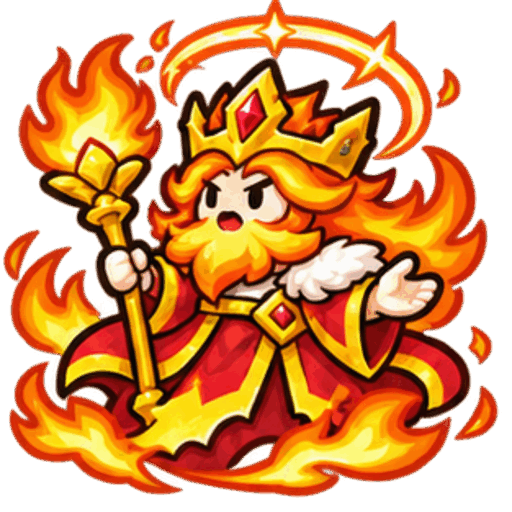
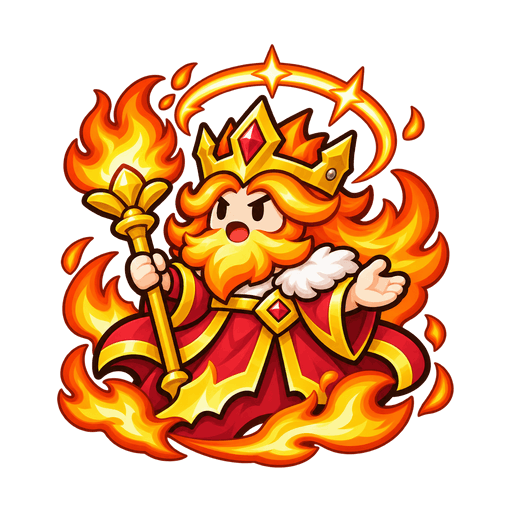
端が切れていたカード絵8枚を描き直す

diff --git a/js/ui/precache.js b/js/ui/precache.js
@@ -1,2 +1,2 @@
-self.CF_CACHE_VERSION="bb3beb484dd0ec26";
+self.CF_CACHE_VERSION="f06e5a0312164f7f";
 self.CF_ASSETS=["index.html","manifest.webmanifest","css/accessibility.css","css/battle.css","css/beast.css","css/card-base.css","css/card-zoom.css","css/chat.css","css/components.css","css/deck.css","css/experience.css","css/finishing-art.css","css/fit.css","css/help-guide.css","css/hologram.css","css/kingdom.css","css/layout.css","css/mana-growth.css","css/materials.css","css/motion.css","css/mp.css","css/polish.css","css/rarity-assets.css","css/rarity-fx.css","css/settings.css","css/step5.css","css/style.css","css/text-fit.css","css/theme.css","css/tokens.css","css/tutorial.css","css/weather.css","js/game/Card.js","js/game/Castle.js","js/game/Game.js","js/game/Monster.js","js/game/Player.js","js/game/Road.js","js/game/Setup.js","js/game/Soldier.js","js/game/Weather.js","js/game/strategies.js","js/game/visibility.js","js/main.js","js/ui/Accessibility.js","js/ui/Animations.js","js/ui/BattleLayout.js","js/ui/CardGuide.js","js/ui/CardInfo.js","js/ui/CardRelief.js","js/ui/CardZoom.js","js/ui/ChatView.js","js/ui/DebugPanel.js","js/ui/DeckEditor.js","js/ui/DeckPreview.js","js/ui/DeckStore.js","js/ui/HandView.js","js/ui/HelpView.js","js/ui/Hologram.js","js/ui/LocalSetup.js","js/ui/MatchStats.js","js/ui/MaterialSkin.js","js/ui/Music.js","js/ui/OnlineClient.js","js/ui/ProgressPanel.js","js/ui/Renderer.js","js/ui/RoomView.js","js/ui/Session.js","js/ui/Settings.js","js/ui/Sound.js","js/ui/Targeting.js","js/ui/Tutorial.js","js/ui/UpgradePanel.js","js/ui/WeatherView.js","js/ui/art.js","js/ui/cardFrame.js","js/ui/cardView.js","js/ui/config.js","js/ui/handOrder.js","js/ui/look.js","js/ui/motion.js","js/ui/pills.js","js/ui/rarity.js","js/ui/stories.js","js/ui/syncCheck.js","js/ui/text.js","data/cards.json","data/castles.json","data/decks.json","data/monsters.json","data/rarities.json","data/rules.json","data/stamps.json","data/upgrades.json","data/weather.json","assets/asset-manifest.json","assets/bg/board-meadow-compact.png","assets/bg/board-meadow.png","assets/bg/board.png","assets/bg/kingdom-meadow.png","assets/bg/kingdom-valley.png","assets/bg/title-compact.png","assets/bg/title.png","assets/cards/card-absolute-zero.png","assets/cards/card-adapt.png","assets/cards/card-apocalypse.png","assets/cards/card-apprentice-archer.png","assets/cards/card-apprentice-mage.png","assets/cards/card-archer.png","assets/cards/card-archmage.png","assets/cards/card-barrier.png","assets/cards/card-beast-bat.png","assets/cards/card-beast-demon-king.png","assets/cards/card-beast-demon.png","assets/cards/card-beast-dragon.png","assets/cards/card-beast-ghost.png","assets/cards/card-beast-goblin.png","assets/cards/card-beast-golem.png","assets/cards/card-beast-mimic.png","assets/cards/card-beast-skeleton.png","assets/cards/card-beast-slime.png","assets/cards/card-beast-treant.png","assets/cards/card-beast-vampire.png","assets/cards/card-big-shield.png","assets/cards/card-big-thunder.png","assets/cards/card-blessing.png","assets/cards/card-bolt.png","assets/cards/card-cavalry.png","assets/cards/card-coin-pouch.png","assets/cards/card-death-mist.png","assets/cards/card-decoy.png","assets/cards/card-deep-freeze.png","assets/cards/card-dragon-knight.png","assets/cards/card-earth-hammer.png","assets/cards/card-earth-king.png","assets/cards/card-earth-spirit.png","assets/cards/card-fire-king.png","assets/cards/card-fire-spirit.png","assets/cards/card-fireball.png","assets/cards/card-flame-sword.png","assets/cards/card-frost-breath.png","assets/cards/card-frozen-world.png","assets/cards/card-gate.png","assets/cards/card-giant.png","assets/cards/card-glacier.png","assets/cards/card-god-shield.png","assets/cards/card-god-sword.png","assets/cards/card-goddess.png","assets/cards/card-gold-coin.png","assets/cards/card-gold-vein.png","assets/cards/card-great-earth-spirit.png","assets/cards/card-great-fire-spirit.png","assets/cards/card-great-heal.png","assets/cards/card-great-water-spirit.png","assets/cards/card-great-wind-spirit.png","assets/cards/card-heal.png","assets/cards/card-heavy.png","assets/cards/card-hero.png","assets/cards/card-holy-light.png","assets/cards/card-holy-shield.png","assets/cards/card-holy-sword.png","assets/cards/card-infantry.png","assets/cards/card-inferno.png","assets/cards/card-iron-sword.png","assets/cards/card-judgment.png","assets/cards/card-king-treasure.png","assets/cards/card-knight.png","assets/cards/card-longbowman.png","assets/cards/card-mage.png","assets/cards/card-magic-sword.png","assets/cards/card-mana-crystal.png","assets/cards/card-mana-drop.png","assets/cards/card-mana-shard.png","assets/cards/card-mana-spring.png","assets/cards/card-meteor.png","assets/cards/card-minor-heal.png","assets/cards/card-paladin.png","assets/cards/card-plague.png","assets/cards/card-poison-mist.png","assets/cards/card-prayer.png","assets/cards/card-raijin.png","assets/cards/card-reflect.png","assets/cards/card-sage.png","assets/cards/card-sandbag.png","assets/cards/card-scout.png","assets/cards/card-shield.png","assets/cards/card-sky-archer.png","assets/cards/card-sniper.png","assets/cards/card-sorcerer.png","assets/cards/card-spearman.png","assets/cards/card-starfall.png","assets/cards/card-steel-shield.png","assets/cards/card-stone-wall.png","assets/cards/card-thief.png","assets/cards/card-thunder.png","assets/cards/card-toxic-rain.png","assets/cards/card-treasure.png","assets/cards/card-venom.png","assets/cards/card-wall.png","assets/cards/card-water-king.png","assets/cards/card-water-spear.png","assets/cards/card-water-spirit.png","assets/cards/card-weather-call.png","assets/cards/card-wind-bow.png","assets/cards/card-wind-king.png","assets/cards/card-wind-spirit.png","assets/cards/card-world-tree-dew.png","assets/cards/frame-beast.png","assets/cards/frame-common.png","assets/cards/frame-defense.png","assets/cards/frame-epic.png","assets/cards/frame-legendary.png","assets/cards/frame-rare.png","assets/cards/frame-soldier.png","assets/cards/frame-special.png","assets/cards/frame-spell.png","assets/cards/frame-uncommon.png","assets/cards/frame-weapon.png","assets/cards/relief/frame-beast-raised.png","assets/cards/relief/frame-beast-relief.png","assets/cards/relief/frame-common-raised.png","assets/cards/relief/frame-common-relief.png","assets/cards/relief/frame-defense-raised.png","assets/cards/relief/frame-defense-relief.png","assets/cards/relief/frame-epic-raised.png","assets/cards/relief/frame-epic-relief.png","assets/cards/relief/frame-legendary-raised.png","assets/cards/relief/frame-legendary-relief.png","assets/cards/relief/frame-rare-raised.png","assets/cards/relief/frame-rare-relief.png","assets/cards/relief/frame-soldier-raised.png","assets/cards/relief/frame-soldier-relief.png","assets/cards/relief/frame-special-raised.png","assets/cards/relief/frame-special-relief.png","assets/cards/relief/frame-spell-raised.png","assets/cards/relief/frame-spell-relief.png","assets/cards/relief/frame-uncommon-raised.png","assets/cards/relief/frame-uncommon-relief.png","assets/cards/relief/frame-weapon-raised.png","assets/cards/relief/frame-weapon-relief.png","assets/castles/barracks-blue-damaged-1.png","assets/castles/barracks-blue-damaged-2.png","assets/castles/barracks-blue-damaged-3.png","assets/castles/barracks-blue.png","assets/castles/barracks-orange-damaged-1.png","assets/castles/barracks-orange-damaged-2.png","assets/castles/barracks-orange-damaged-3.png","assets/castles/barracks-orange.png","assets/castles/castle-blue-damaged-1.png","assets/castles/castle-blue-damaged-2.png","assets/castles/castle-blue-damaged-3.png","assets/castles/castle-blue-ruined.png","assets/castles/castle-blue.png","assets/castles/castle-orange-damaged-1.png","assets/castles/castle-orange-damaged-2.png","assets/castles/castle-orange-damaged-3.png","assets/castles/castle-orange-ruined.png","assets/castles/castle-orange.png","assets/castles/fortress-blue-damaged-1.png","assets/castles/fortress-blue-damaged-2.png","assets/castles/fortress-blue-damaged-3.png","assets/castles/fortress-blue.png","assets/castles/fortress-orange-damaged-1.png","assets/castles/fortress-orange-damaged-2.png","assets/castles/fortress-orange-damaged-3.png","assets/castles/fortress-orange.png","assets/castles/tower-blue-damaged-1.png","assets/castles/tower-blue-damaged-2.png","assets/castles/tower-blue-damaged-3.png","assets/castles/tower-blue.png","assets/castles/tower-orange-damaged-1.png","assets/castles/tower-orange-damaged-2.png","assets/castles/tower-orange-damaged-3.png","assets/castles/tower-orange.png","assets/fx/dust.png","assets/fx/evolve-1.png","assets/fx/evolve-2.png","assets/fx/evolve-3.png","assets/fx/explosion.png","assets/fx/fireball.png","assets/fx/fusion.png","assets/fx/heal.png","assets/fx/ice.png","assets/fx/lightning.png","assets/fx/lucky-reward.png","assets/fx/poison.png","assets/ui/app-icon-192.png","assets/ui/app-icon-512.png","assets/ui/app-icon-maskable-512.png","assets/ui/apple-touch-icon.png","assets/ui/banner-win.png","assets/ui/btn-blue.png","assets/ui/btn-cream.png","assets/ui/btn-green.png","assets/ui/btn-orange.png","assets/ui/btn-red.png","assets/ui/btn-round.png","assets/ui/button-end-turn.png","assets/ui/card-back.png","assets/ui/icon-coin.png","assets/ui/icon-earth.png","assets/ui/icon-fire.png","assets/ui/icon-heart.png","assets/ui/icon-help.png","assets/ui/icon-kind-defense.png","assets/ui/icon-kind-soldier.png","assets/ui/icon-kind-spell.png","assets/ui/icon-kind-weapon.png","assets/ui/icon-kind-wild.png","assets/ui/icon-luck.png","assets/ui/icon-mode-local.png","assets/ui/icon-mode-online.png","assets/ui/icon-mode-solo.png","assets/ui/icon-mp.png","assets/ui/icon-rarity-common.png","assets/ui/icon-rarity-epic.png","assets/ui/icon-rarity-legendary.png","assets/ui/icon-rarity-rare.png","assets/ui/icon-rarity-special.png","assets/ui/icon-rarity-uncommon.png","assets/ui/icon-water.png","assets/ui/icon-wind.png","assets/ui/kingdom-crest.png","assets/ui/kingdom-parchment.png","assets/ui/kingdom-platform.png","assets/ui/kingdom-primary.png","assets/ui/kingdom-secondary.png","assets/ui/kingdom-wood.png","assets/ui/logo.png","assets/ui/natural/danger-40-left.png","assets/ui/natural/danger-40-middle.png","assets/ui/natural/danger-40-right.png","assets/ui/natural/danger-44-left.png","assets/ui/natural/danger-44-middle.png","assets/ui/natural/danger-44-right.png","assets/ui/natural/danger-72-left.png","assets/ui/natural/danger-72-middle.png","assets/ui/natural/danger-72-right.png","assets/ui/natural/frame.png","assets/ui/natural/leather-tile.png","assets/ui/natural/neutral-40-left.png","assets/ui/natural/neutral-40-middle.png","assets/ui/natural/neutral-40-right.png","assets/ui/natural/neutral-44-left.png","assets/ui/natural/neutral-44-middle.png","assets/ui/natural/neutral-44-right.png","assets/ui/natural/neutral-72-left.png","assets/ui/natural/neutral-72-middle.png","assets/ui/natural/neutral-72-right.png","assets/ui/natural/neutral-wide-full.png","assets/ui/natural/oak-tile.png","assets/ui/natural/paper-tile.png","assets/ui/natural/primary-40-left.png","assets/ui/natural/primary-40-middle.png","assets/ui/natural/primary-40-right.png","assets/ui/natural/primary-44-left.png","assets/ui/natural/primary-44-middle.png","assets/ui/natural/primary-44-right.png","assets/ui/natural/primary-72-left.png","assets/ui/natural/primary-72-middle.png","assets/ui/natural/primary-72-right.png","assets/ui/natural/primary-wide-full.png","assets/ui/natural/round-neutral.png","assets/ui/natural/round-selected.png","assets/ui/natural/selected-40-left.png","assets/ui/natural/selected-40-middle.png","assets/ui/natural/selected-40-right.png","assets/ui/natural/selected-44-left.png","assets/ui/natural/selected-44-middle.png","assets/ui/natural/selected-44-right.png","assets/ui/natural/selected-72-left.png","assets/ui/natural/selected-72-middle.png","assets/ui/natural/selected-72-right.png","assets/ui/panel-parchment.png","assets/ui/result-defeat.png","assets/ui/result-victory.png","assets/ui/sign-hp.png","assets/ui/stamps/again.png","assets/ui/stamps/gg.png","assets/ui/stamps/go.png","assets/ui/stamps/hello.png","assets/ui/stamps/nice.png","assets/ui/stamps/ouch.png","assets/ui/stamps/scared.png","assets/ui/stamps/smug.png","assets/ui/stamps/sorry.png","assets/ui/stamps/thanks.png","assets/ui/stamps/think.png","assets/ui/stamps/yay.png","assets/ui/tap-plate.png","assets/ui/title-castle-blue.png","assets/ui/title-castle-orange.png","assets/ui/title-infantry-orange.png","assets/ui/title-knight-blue.png","assets/ui/weather-coin-rain.png","assets/ui/weather-fog.png","assets/ui/weather-heavy-rain.png","assets/ui/weather-rain.png","assets/ui/weather-sandstorm.png","assets/ui/weather-storm.png","assets/ui/weather-sunny.png","assets/units/apprentice-archer-blue.png","assets/units/apprentice-archer-orange.png","assets/units/apprentice-mage-blue.png","assets/units/apprentice-mage-orange.png","assets/units/archer-blue.png","assets/units/archer-orange.png","assets/units/archmage-blue.png","assets/units/archmage-orange.png","assets/units/cavalry-blue.png","assets/units/cavalry-orange.png","assets/units/dragon-knight-blue.png","assets/units/dragon-knight-orange.png","assets/units/earth-spirit.png","assets/units/fire-spirit.png","assets/units/giant-blue.png","assets/units/giant-orange.png","assets/units/great-earth-spirit.png","assets/units/great-fire-spirit.png","assets/units/great-water-spirit.png","assets/units/great-wind-spirit.png","assets/units/heavy-blue.png","assets/units/heavy-orange.png","assets/units/hero-blue.png","assets/units/hero-orange.png","assets/units/infantry-blue.png","assets/units/infantry-orange.png","assets/units/knight-blue.png","assets/units/knight-orange.png","assets/units/longbowman-blue.png","assets/units/longbowman-orange.png","assets/units/mage-blue.png","assets/units/mage-orange.png","assets/units/monster-bat.png","assets/units/monster-demon-king.png","assets/units/monster-demon.png","assets/units/monster-dragon.png","assets/units/monster-ghost.png","assets/units/monster-goblin.png","assets/units/monster-golem.png","assets/units/monster-mimic.png","assets/units/monster-skeleton.png","assets/units/monster-slime.png","assets/units/monster-treant.png","assets/units/monster-vampire.png","assets/units/paladin-blue.png","assets/units/paladin-orange.png","assets/units/sage-blue.png","assets/units/sage-orange.png","assets/units/scout-blue.png","assets/units/scout-orange.png","assets/units/sky-archer-blue.png","assets/units/sky-archer-orange.png","assets/units/sniper-blue.png","assets/units/sniper-orange.png","assets/units/sorcerer-blue.png","assets/units/sorcerer-orange.png","assets/units/spearman-blue.png","assets/units/spearman-orange.png","assets/units/water-spirit.png","assets/units/wind-spirit.png"];
